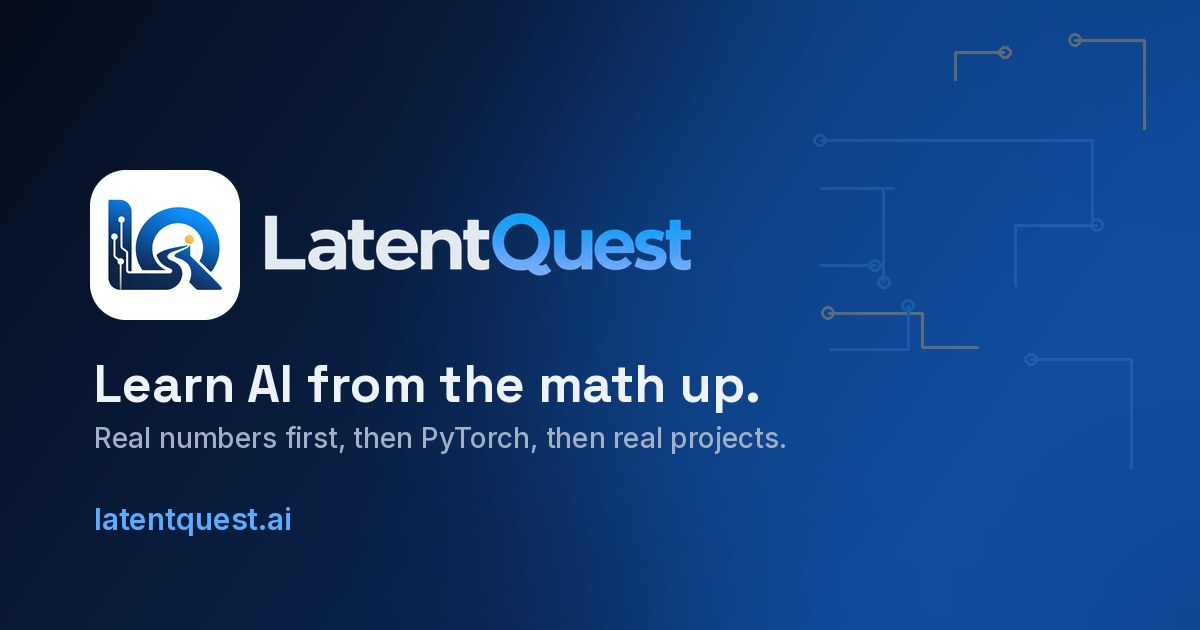
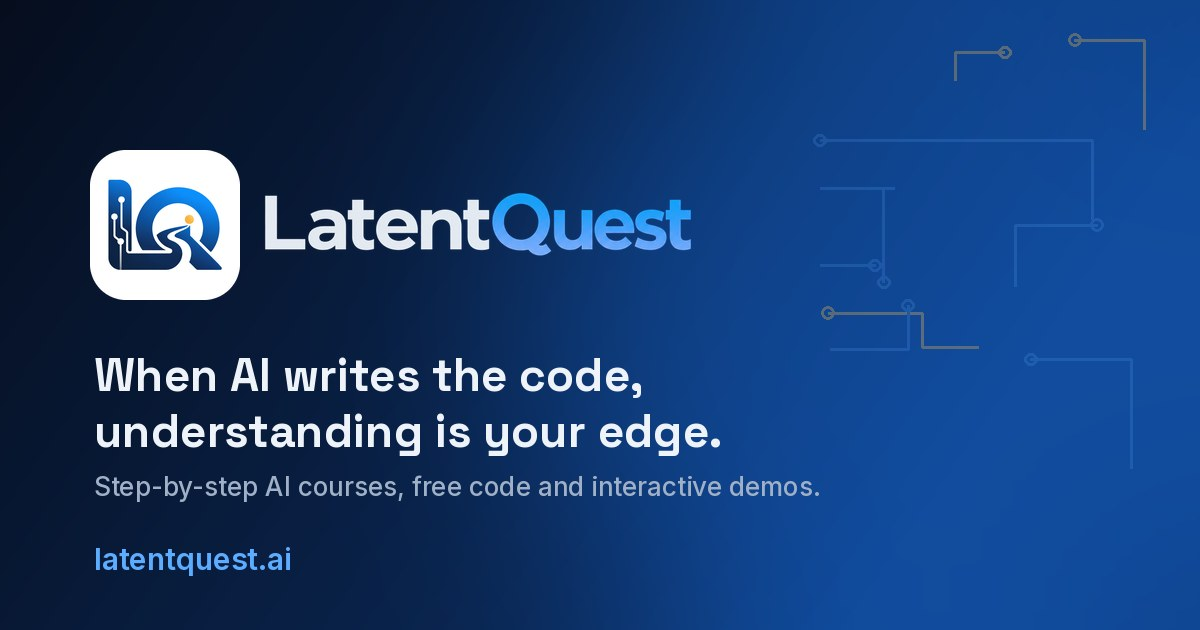
Use the new tagline: When AI writes the code, understanding is your edge

diff --git a/index.html b/index.html
@@ -3,15 +3,15 @@
 <head>
   <meta charset="utf-8">
   <meta name="viewport" content="width=device-width, initial-scale=1">
-  <title>LatentQuest · Learn AI from the Math Up</title>
-  <meta name="description" content="LatentQuest teaches the models behind modern AI the way they actually work: real numbers first, then PyTorch, then real projects. Courses, free open-source code and interactive demos by Mohammad R. Khalili Shoja and Seyed Vahid Mirnezami.">
+  <title>LatentQuest · When AI writes the code, understanding is your edge</title>
+  <meta name="description" content="When AI writes the code, understanding is your edge. LatentQuest explains how modern AI really works with intuitive, step-by-step examples, then builds it in PyTorch and applies it to real projects. Courses, free code and interactive demos by Mohammad R. Khalili Shoja and Seyed Vahid Mirnezami.">
   <meta name="author" content="LatentQuest">
   <link rel="canonical" href="https://latentquest.ai/">
 
   <meta property="og:type" content="website">
   <meta property="og:url" content="https://latentquest.ai/">
-  <meta property="og:title" content="LatentQuest · Learn AI from the Math Up">
-  <meta property="og:description" content="Learn transformers the way they actually work: real numbers first, then PyTorch, then real Kaggle projects.">
+  <meta property="og:title" content="LatentQuest · When AI writes the code, understanding is your edge">
+  <meta property="og:description" content="Step-by-step AI courses, free code and interactive demos. No advanced math required to get started.">
   <meta property="og:image" content="https://latentquest.ai/assets/img/og-latentquest.jpg">
   <meta name="twitter:card" content="summary_large_image">
   <meta name="theme-color" content="#0a6fd6">
@@ -138,8 +138,8 @@
       <div class="container hero__inner">
         <div class="hero__copy reveal">
           <p class="eyebrow"><span class="dot"></span> AI courses by industry scientists with Ph.D.s</p>
-          <h1>Learn AI,<br><span class="grad">from the math up.</span></h1>
-          <p class="lead">LatentQuest courses teach the models behind modern AI the way they actually work: real numbers you can check on paper, then clean PyTorch, then real projects on real data.</p>
+          <h1 class="hero__title--long">When AI writes the code,<br><span class="grad">understanding is your edge.</span></h1>
+          <p class="lead">LatentQuest explains how modern AI really works, step by step: intuitive examples you can follow, then clean PyTorch, then real projects on real data. No advanced math required to get started.</p>
           <div class="hero__ctas">
             <a class="btn btn--primary" data-featured-link href="https://www.udemy.com/course/master-transformers-from-scratch-bert-vit-ai-search/?referralCode=741D2251A98D41859FB9" target="_blank" rel="noopener">
               Explore the course
@@ -177,7 +177,7 @@
       <div class="container">
         <div class="section__head reveal">
           <p class="kicker">Courses</p>
-          <h2>Learn AI the way it actually works</h2>
+          <h2>Understand the AI you build with</h2>
           <p class="section__lead">Every course follows the same path: work through the math with real numbers, build it in PyTorch, then ship real projects.</p>
         </div>
         <div class="course-grid" id="course-grid"></div>

diff --git a/assets/css/style.css b/assets/css/style.css
@@ -388,3 +388,7 @@ h1, h2, h3 { text-wrap: balance; }
   .instructor { flex-direction: column; }
   .instructor__photo { width: 96px; height: 96px; }
 }
+
+.hero h1.hero__title--long { font-size: clamp(34px, 3.7vw, 50px); }
+.hero h1.hero__title--long .grad { white-space: normal; }
+@media (min-width: 1100px) { .hero h1.hero__title--long .grad { white-space: nowrap; } }
